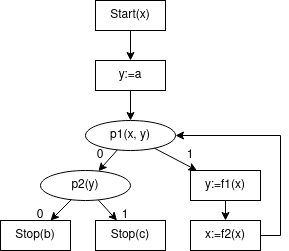
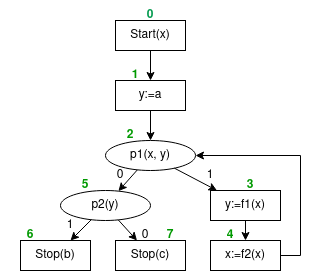
16:15 02.11.2021

Changed region(s): [[0.0, 0.0, 0.9965, 1.0], [0.2803, 0.502, 0.3426, 0.5578]]

diff --git a/Системное программирование/ЛР1/lr1/src/main/kotlin/Main.kt b/Системное программирование/ЛР1/lr1/src/main/kotlin/Main.kt
@@ -11,11 +11,17 @@ fun task1() {
     print("Введите вещественные числа x, y, z через пробел: ")
     try {
         readLine()?.split(" ")?.map { it.toDouble() }.let { array ->
-            val x = array!![0]
-            val y = array[1]
-            val z = array[2]
-            if(z + 3 * x == 0.0 || ln(x) - z == 0.0) throw ArithmeticException()
-            println("Ответ: ${(y - x) / (z + 3 * x) * (0.25 * x + y) / (ln(x) - z)}")
+            // Start(x1, x2, x3)
+            val (x, y, z) = array!!
+            // p(x1, x3)
+            if(z + 3 * x == 0.0 || ln(x) - z == 0.0) {
+                // Stop(a)
+                throw ArithmeticException()
+            }
+            // y := f(x1, x2, x3)
+            val f = (y - x) / (z + 3 * x) * (0.25 * x + y) / (ln(x) - z)
+            // Stop(y)
+            println("Ответ: $f")
         }
     } catch(e: ArithmeticException) {
         println("Деление на ноль!")
@@ -30,14 +36,27 @@ fun task2() {
     print("Введите вещественные числа a и b через пробел: ")
     try {
         readLine()?.split(" ")?.map { it.toDouble() }.let { array ->
-            val a = array!![0]
-            val b = array[1]
-            if(a <= 0.0 || b <= 0.0) throw IllegalArgumentException()
+            // Start(x1, x2)
+            val (a, b) = array!!
+            // p1(x1, x2)
+            if(a <= 0.0 || b <= 0.0) {
+                // Stop(a)
+                throw IllegalArgumentException()
+            }
             println("Ответ: ${
-                if(a + b >= 180.0) "Треугольник не существует"
-                else if(a + b == 90.0 || a == 90.0 || b == 90.0)
+                // p2(x1, x2)
+                if(a + b >= 180.0) {
+                    // Stop(b)
+                    "Треугольник не существует"
+                }
+                // p3(x1, x2)
+                else if(a + b == 90.0 || a == 90.0 || b == 90.0) {
+                    // Stop(c)
                     "Треугольник существует и является прямоугольным"
-                else "Треугольник существует и НЕ является прямоугольным"
+                } else {
+                    // Stop(d)
+                    "Треугольник существует и НЕ является прямоугольным"
+                }
             }")
         }
     } catch (e: NumberFormatException) {
@@ -53,13 +72,27 @@ fun task3() {
     print("Введите целое число N: ")
     try {
         readLine()?.toInt().let {
-            var isIncluded = false
+            // Start(x)
             var n = it
+            // y := a
+            var isIncluded = false
+            // p1(x, y)
             while(n != 0 && !isIncluded) {
+                // y := f1(x)
                 isIncluded = (n!! % 10) % 2 == 1
+                // x := f2(x)
                 n /= 10
             }
-            println("Цифра ${if(isIncluded) "" else "НЕ "}входит в запись числа $it.")
+            println("Цифра ${
+                // p2(y)
+                if(isIncluded) {
+                    // Stop(b)
+                    ""
+                } else {
+                    // Stop(c)
+                    "НЕ "
+                }
+            }входит в запись числа $it.")
         }
     } catch (e: NumberFormatException) {
         println("Введено не число!")
@@ -69,12 +102,23 @@ fun task3() {
 fun task4() {
     print("Введите целое число N: ")
     try {
-        readLine()?.toInt().let { n ->
+        readLine()?.toInt().let { n -> // Start(x)
+            // y1 := a
             var result = 1.0
-            if(n!! < 1) throw IllegalArgumentException()
-            for(i in 1..n) {
-                result *= 2.0 * i / (2 * i + 1)
+            // p1(x, y1)
+            if(n!! < 1) {
+                // Stop(b)
+                throw IllegalArgumentException()
             }
+            // y2 := c // здесь y2 - i, c = 0
+            // p2(y2)
+            for(i in 1..n) {
+                // y1 := f1(y1, y2)
+                result *= 2.0 * i / (2 * i + 1)
+                // y2 := f2(y2) // здесь y2 - i, f2(y2) - i++
+                // Язык Kotlin сам выполняет инкремент
+            }
+            // Stop(y1)
             println("$result")
         }
     } catch (e: NumberFormatException) {
